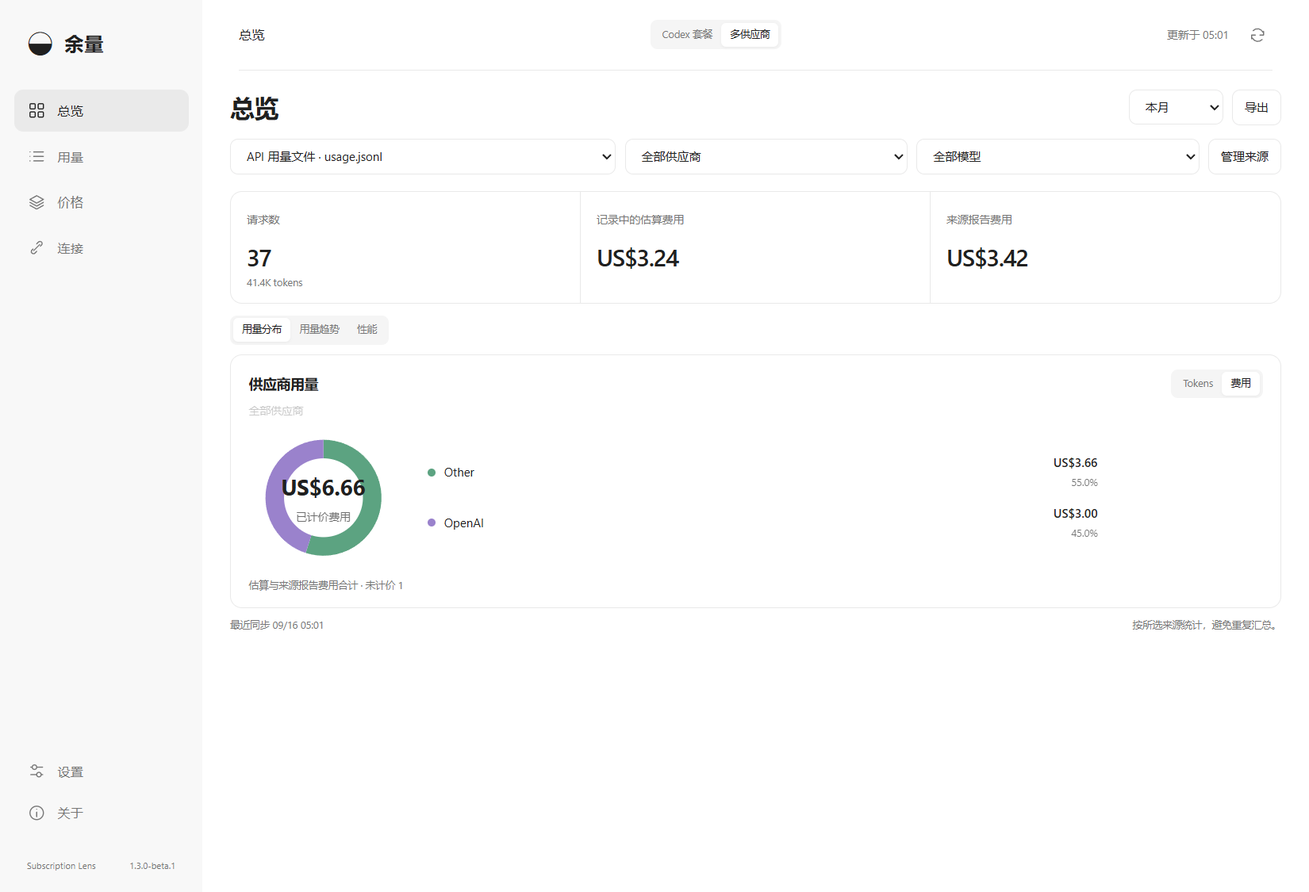
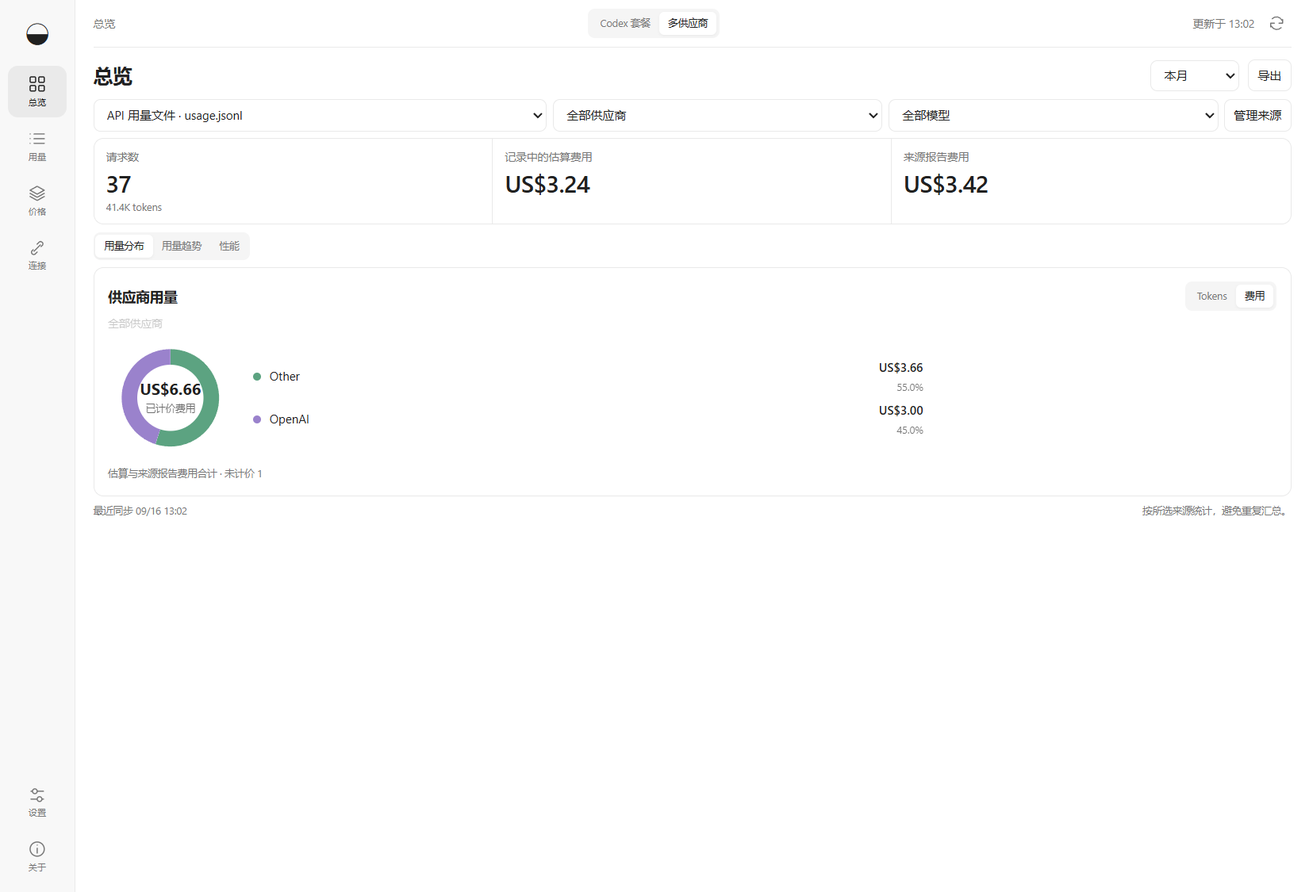
Make the desktop workspace compact

diff --git a/src/ui/layout.css b/src/ui/layout.css
@@ -28,3 +28,92 @@ body[data-page="overview"][data-multi="false"] main>.metrics{grid-template-colum
 body[data-page="sources"] .grid-2{grid-template-columns:repeat(2,minmax(0,1fr))}body[data-page="sources"] .grid-2>.panel{min-width:0}body[data-page="sources"] .connection-head{gap:8px;flex-wrap:wrap}body[data-page="sources"] .source-count{gap:20px}
 @media(max-height:720px){.monitor-days{min-height:95px;padding:6px 0}.dashboard-deck .info-row{padding:8px 0}.dashboard-deck .day-shortcuts{padding-bottom:8px}}
 .dashboard-deck .distribution-center strong{font-size:16px;max-width:70%;overflow-wrap:anywhere;line-height:1.15}.onboarding{margin:20px auto;padding:24px}.dashboard-deck .distribution-center span{font-size:10px}
+
+/* Compact desktop shell: keep every primary task visible in a 760 x 560 window. */
+body:not(.compact-mode) aside{width:76px;padding:14px 8px 10px;align-items:stretch;border-right:1px solid var(--line)}
+body:not(.compact-mode) .workspace{margin-left:76px}
+body:not(.compact-mode) .brand{height:40px;padding:0;margin:0 0 12px;justify-content:center;letter-spacing:0}
+body:not(.compact-mode) .brand .logo{font-size:25px}
+body:not(.compact-mode) nav{gap:3px}
+body:not(.compact-mode) nav button,body:not(.compact-mode) .nav-bottom button{min-height:52px;padding:7px 4px;gap:3px;flex-direction:column;justify-content:center;text-align:center;border-radius:10px;font-size:9px;line-height:1.1}
+body:not(.compact-mode) nav button i,body:not(.compact-mode) .nav-bottom button i{height:20px}
+body:not(.compact-mode) nav button i svg,body:not(.compact-mode) .nav-bottom button i svg{width:19px;height:19px}
+body:not(.compact-mode) .nav-bottom{display:grid;gap:3px}
+body:not(.compact-mode) header{height:48px;margin:0 18px;gap:12px}
+body:not(.compact-mode) #breadcrumb{font-size:11px;font-weight:500;color:var(--muted)}
+body:not(.compact-mode) .header-actions{gap:7px}
+body:not(.compact-mode) main{padding:12px 18px 12px}
+body:not(.compact-mode) .page-head{min-height:32px;margin-bottom:8px}
+body:not(.compact-mode) h1{font-size:20px;letter-spacing:-.4px}
+body:not(.compact-mode) .page-sub{display:inline;margin:0 0 0 8px}
+body:not(.compact-mode) .page-head>div:first-child{display:flex;align-items:baseline;min-width:0}
+body:not(.compact-mode) .button,body:not(.compact-mode) select,body:not(.compact-mode) .input{padding:6px 9px;border-radius:7px}
+body:not(.compact-mode) .metrics{border-radius:10px;margin-bottom:8px}
+body:not(.compact-mode) .metric{min-height:76px;padding:9px 12px}
+body:not(.compact-mode) .metric-label{min-height:auto!important;white-space:nowrap;overflow:hidden;text-overflow:ellipsis}
+body:not(.compact-mode) .metric-value{font-size:22px;margin:3px 0 1px;letter-spacing:-.5px}
+body:not(.compact-mode) .metric-note{white-space:nowrap;overflow:hidden;text-overflow:ellipsis}
+body:not(.compact-mode) .dashboard-tabs{margin-bottom:7px;padding:2px;max-width:100%;overflow-x:auto}
+body:not(.compact-mode) .dashboard-tabs button{padding:4px 9px}
+body:not(.compact-mode) .dashboard-deck{margin-bottom:7px}
+body:not(.compact-mode) .dashboard-deck .decision-grid{margin:0;gap:10px;grid-template-columns:minmax(0,1.25fr) minmax(0,1fr)}
+body:not(.compact-mode) .quota-card .panel-head{padding:10px 14px 0;align-items:center;flex-wrap:nowrap}
+body:not(.compact-mode) .quota-card select{max-width:64%;padding-top:5px;padding-bottom:5px}
+body:not(.compact-mode) .quota-main{padding:7px 14px 5px}
+body:not(.compact-mode) .quota-number{font-size:31px;letter-spacing:-1px}
+body:not(.compact-mode) .reset-time strong{font-size:16px}
+body:not(.compact-mode) .quota-meter{margin:0 14px 7px}
+body:not(.compact-mode) .pace-line{padding:0 14px;font-size:11px}
+body:not(.compact-mode) .pace-detail{padding:4px 14px 0;line-height:1.35}
+body:not(.compact-mode) .quota-footer{padding:6px 14px 9px}
+body:not(.compact-mode) .billing-card{padding:10px 14px}
+body:not(.compact-mode) .billing-card p{margin:2px 0 4px}
+body:not(.compact-mode) .bill-value{font-size:22px}
+body:not(.compact-mode) .bill-progress{margin:6px 0}
+body:not(.compact-mode) .bill-result{margin-bottom:3px}
+body:not(.compact-mode) .dashboard-deck .distribution-body{min-height:126px;gap:18px}
+body:not(.compact-mode) .dashboard-deck .distribution-visual{width:126px;flex-basis:126px}
+body:not(.compact-mode) .distribution-row{min-height:32px;padding:3px 2px}
+body:not(.compact-mode) .dashboard-deck .chart{height:132px}
+body:not(.compact-mode) .dashboard-deck .panel-head{padding:10px 14px 0}
+body:not(.compact-mode) .dashboard-deck .chart-area{padding:6px 14px 2px}
+body:not(.compact-mode) .dashboard-deck .day-shortcuts{padding:0 14px 8px}
+body:not(.compact-mode) .monitor-days{min-height:105px;padding:5px 0}
+body:not(.compact-mode) .overview-footer,body:not(.compact-mode) .monitor-footer{min-height:22px;margin-top:4px}
+body:not(.compact-mode) .filters,body:not(.compact-mode) .usage-toolbar,body:not(.compact-mode) .filter-chips{margin-bottom:7px;gap:6px}
+body:not(.compact-mode) .panel,body:not(.compact-mode) .metrics{border-radius:10px}
+body:not(.compact-mode) th{padding:8px 12px}
+body:not(.compact-mode) td,body[data-page="activity"] td{padding:8px 12px}
+body:not(.compact-mode) .pagination{padding:7px 12px}
+body:not(.compact-mode) .padded,body:not(.compact-mode) .form-section{padding:14px}
+body:not(.compact-mode) .connection-head,body:not(.compact-mode) .form-section h2{margin-bottom:12px}
+body:not(.compact-mode) .source-count{margin:10px 0;gap:18px}
+body:not(.compact-mode) .source-count strong{font-size:21px}
+body:not(.compact-mode) .info-row{padding:8px 0}
+body:not(.compact-mode) .field{margin-bottom:11px}
+body:not(.compact-mode) .section-gap{margin-top:9px}
+body:not(.compact-mode) .notice{margin-bottom:7px;padding:7px 10px}
+
+@media(max-width:900px){
+ body:not(.compact-mode) aside{width:66px;padding-left:6px;padding-right:6px}
+ body:not(.compact-mode) .workspace{margin-left:66px}
+ body:not(.compact-mode) nav button,body:not(.compact-mode) .nav-bottom button{font-size:8px}
+ body:not(.compact-mode) header{margin:0 12px}
+ body:not(.compact-mode) main{padding-left:12px;padding-right:12px}
+ body:not(.compact-mode) .page-actions .button{padding-left:7px;padding-right:7px}
+ body:not(.compact-mode) .monitor-metrics{grid-template-columns:repeat(3,minmax(0,1fr))!important}
+ body:not(.compact-mode) .dashboard-deck .decision-grid{grid-template-columns:minmax(0,1fr) minmax(0,.9fr)}
+}
+@media(max-height:620px){
+ body:not(.compact-mode) header{height:42px}
+ body:not(.compact-mode) main{padding-top:8px;padding-bottom:8px}
+ body:not(.compact-mode) .page-head{min-height:28px;margin-bottom:5px}
+ body:not(.compact-mode) h1{font-size:18px}
+ body:not(.compact-mode) .metric{min-height:65px;padding:6px 10px}
+ body:not(.compact-mode) .metric-value{font-size:19px}
+ body:not(.compact-mode) .dashboard-tabs{margin-bottom:5px}
+ body:not(.compact-mode) .dashboard-deck .distribution-body{min-height:105px}
+ body:not(.compact-mode) .dashboard-deck .distribution-visual{width:105px;flex-basis:105px}
+ body:not(.compact-mode) .quota-footer{display:none}
+ body:not(.compact-mode) .pace-detail{font-size:9px}
+}

diff --git a/src/ui/layout.js b/src/ui/layout.js
@@ -1,5 +1,5 @@
 'use strict';
-const layoutState={tab:'distribution',pages:{},limit:5};
+const layoutState={tabs:{codex:'plan',multi:'distribution'},pages:{},limit:5};
 const filtersBeforeLayout=filters,renderBeforeLayout=render;
 filters=()=>({...filtersBeforeLayout(),limit:layoutState.limit});
 function pageItems(container,items,key,reserve=56){
@@ -13,13 +13,12 @@ function pageItems(container,items,key,reserve=56){
 function fitOverview(main){
  const distribution=main.querySelector('.distribution-panel'),two=main.querySelector('.two-col');if(!distribution)return;
  const trend=two?.querySelector(':scope > section:not(.distribution-panel)'),project=two?.querySelector('.project-card'),decision=main.querySelector('.decision-grid');
- const short=innerHeight<960;
  let performance=null;if(state.multi){const metrics=main.querySelector('.monitor-metrics');if(metrics){performance=document.createElement('section');performance.className='panel performance-panel';const grid=document.createElement('div');grid.className='metrics performance-metrics';[...metrics.children].slice(3).forEach(n=>grid.append(n));performance.append(grid);}}
- const panels=[['distribution','用量分布',distribution],['trend','用量趋势',trend],['projects','项目',project],['performance','性能',performance],...(short?[['plan','套餐与账期',decision]]:[])].filter(([, ,node])=>node);
- if(!panels.some(([key])=>key===layoutState.tab))layoutState.tab='distribution';
- const tabs=document.createElement('div');tabs.className='segments dashboard-tabs';tabs.innerHTML=panels.map(([key,label])=>`<button data-layout-tab="${key}" class="${layoutState.tab===key?'active':''}" aria-pressed="${layoutState.tab===key}">${t(label)}</button>`).join('');
+ const panels=[...(!state.multi?[['plan','套餐与账期',decision]]:[]),['distribution','用量分布',distribution],['trend','用量趋势',trend],['projects','项目',project],['performance','性能',performance]].filter(([, ,node])=>node);
+ const mode=state.multi?'multi':'codex';if(!panels.some(([key])=>key===layoutState.tabs[mode]))layoutState.tabs[mode]=panels[0][0];
+ const active=layoutState.tabs[mode];const tabs=document.createElement('div');tabs.className='segments dashboard-tabs';tabs.innerHTML=panels.map(([key,label])=>`<button data-layout-tab="${key}" class="${active===key?'active':''}" aria-pressed="${active===key}">${t(label)}</button>`).join('');
  const deck=document.createElement('div');deck.className='dashboard-deck';
- for(const[key,,node]of panels){node.hidden=key!==layoutState.tab;deck.append(node);}
+ for(const[key,,node]of panels){node.hidden=key!==active;deck.append(node);}
  if(two)two.remove();const footer=main.querySelector('.overview-footer,.monitor-footer');main.insertBefore(tabs,footer);main.insertBefore(deck,footer);
  if(project&&!project.hidden)pageItems(project.querySelector('.project-list'),[...project.querySelectorAll('.project-item')],'projects',70);
  if(!distribution.hidden)pageItems(distribution.querySelector('.distribution-legend'),[...distribution.querySelectorAll('.distribution-row')],'legend',100);
@@ -37,7 +36,7 @@ render=function(){renderBeforeLayout();if(!state.data)return;document.body.datas
  }
 };
 document.addEventListener('click',event=>{const button=event.target.closest('button');if(!button)return;const d=button.dataset;
- if(d.layoutTab){event.stopImmediatePropagation();layoutState.tab=d.layoutTab;render();}
+ if(d.layoutTab){event.stopImmediatePropagation();layoutState.tabs[state.multi?'multi':'codex']=d.layoutTab;render();}
  if(d.layoutPage){event.stopImmediatePropagation();layoutState.pages[d.layoutPage]=Math.max(0,(layoutState.pages[d.layoutPage]||0)+Number(d.delta));render();}
  if(['prev','next'].includes(d.action)){event.stopImmediatePropagation();state.offset=Math.max(0,state.offset+(d.action==='next'?layoutState.limit:-layoutState.limit));load();}
 },true);

diff --git a/src/ui/index.html b/src/ui/index.html
@@ -1,5 +1,5 @@
 <!doctype html><html lang="zh-CN"><head><meta charset="utf-8"><meta name="viewport" content="width=device-width,initial-scale=1"><meta http-equiv="Content-Security-Policy" content="default-src 'self'; script-src 'self'; style-src 'self' 'unsafe-inline'; img-src 'self' data:; connect-src 'none'; object-src 'none'; base-uri 'none'; form-action 'none'"><title>Subscription Lens</title><link rel="stylesheet" href="style.css"><link rel="stylesheet" href="experience.css"><link rel="stylesheet" href="monitor.css"><link rel="stylesheet" href="layout.css"><script src="locales.js" defer></script><script src="../i18n.js" defer></script><script src="app.js" defer></script><script src="experience.js" defer></script><script src="monitor.js" defer></script><script src="distribution.js" defer></script><script src="layout.js" defer></script></head><body>
-<aside><div class="brand"><span class="logo">◒</span><span><span data-i18n="余量">余量</span></span></div><nav aria-label="导航" data-i18n-label="导航"><button data-page="overview" class="active"><i data-icon="overview"></i><span data-i18n="总览">总览</span></button><button data-page="activity"><i data-icon="list"></i><span data-i18n="用量">用量</span></button><button data-page="models"><i data-icon="models"></i><span data-i18n="价格">价格</span></button><button data-page="sources"><i data-icon="connect"></i><span data-i18n="连接">连接</span></button></nav><div class="nav-bottom"><button data-page="settings"><i data-icon="settings"></i><span data-i18n="设置">设置</span></button><button id="about"><i data-icon="info"></i><span data-i18n="关于">关于</span></button><small>Subscription Lens <span>1.3.0-beta.1</span></small></div></aside>
+<aside><div class="brand" title="Subscription Lens" aria-label="Subscription Lens"><span class="logo">◒</span></div><nav aria-label="导航" data-i18n-label="导航"><button data-page="overview" class="active" data-i18n-title="总览"><i data-icon="overview"></i><span data-i18n="总览">总览</span></button><button data-page="activity" data-i18n-title="用量"><i data-icon="list"></i><span data-i18n="用量">用量</span></button><button data-page="models" data-i18n-title="价格"><i data-icon="models"></i><span data-i18n="价格">价格</span></button><button data-page="sources" data-i18n-title="连接"><i data-icon="connect"></i><span data-i18n="连接">连接</span></button></nav><div class="nav-bottom"><button data-page="settings" data-i18n-title="设置"><i data-icon="settings"></i><span data-i18n="设置">设置</span></button><button id="about" data-i18n-title="关于"><i data-icon="info"></i><span data-i18n="关于">关于</span></button></div></aside>
 <div class="workspace"><header><span id="breadcrumb"><span data-i18n="总览">总览</span></span><div class="header-actions"><span id="update-state"></span><button class="icon-button" id="refresh" title="刷新" aria-label="刷新" data-i18n-label="刷新" data-i18n-title="刷新"><i data-icon="refresh"></i></button></div></header><main id="main"><div class="loading"><span data-i18n="正在加载…">正在加载…</span></div></main></div>
 <dialog id="dialog"><div class="dialog-top"><h2 id="dialog-title"></h2><button class="icon-button" id="close-dialog" aria-label="关闭" data-i18n-label="关闭">×</button></div><div id="dialog-body"></div></dialog><div id="toast" role="status" aria-live="polite"></div>
 </body></html>

diff --git a/src/ui/app.js b/src/ui/app.js
@@ -51,7 +51,7 @@ document.addEventListener('change',e=>{if(e.target.id==='period'){state.period=e
 let searchTimer;document.addEventListener('input',e=>{if(e.target.id==='search'){state.query=e.target.value;state.offset=0;clearTimeout(searchTimer);searchTimer=setTimeout(load,180);}if(e.target.closest('#settings-form'))state.dirty=true;});
 document.addEventListener('submit',e=>{if(e.target.id!=='settings-form')return;e.preventDefault();const f=new FormData(e.target);action(async()=>{const r=await api('saveSettings',{cycleStart:f.get('cycleStart'),cycleEnd:f.get('cycleEnd'),paid:f.get('paid')===''?null:Number(f.get('paid')),extra:Number(f.get('extra')),language:f.get('language'),theme:f.get('theme'),tray:f.has('tray'),startup:f.has('startup')});state.dirty=false;state.data.settings=r;return r;},()=>t('已保存'));});
 $('#refresh').addEventListener('click',()=>action(()=>api('refresh')));$('#close-dialog').addEventListener('click',()=>$('#dialog').close());
-$('#about').addEventListener('click',()=>modal(t("余量"),`<p>Subscription Lens 1.3.0-beta.1</p><p>${t("Codex 套餐用量监测。数据保存在本机，应用不保存聊天正文。")}</p><p>${t("API 等价成本按价格快照计算，不含工具费用。普通 ChatGPT 聊天和未接入设备不计入明细。")}</p><p>${t("独立工具，与 OpenAI 无隶属关系。")}</p><button class="button" data-action="openPricing">${t("价格来源")}</button>`));
+$('#about').addEventListener('click',()=>modal(t("余量"),`<p>Subscription Lens ${esc(state.data?.desktop?.version||'')}</p><p>${t("Codex 套餐用量监测。数据保存在本机，应用不保存聊天正文。")}</p><p>${t("API 等价成本按价格快照计算，不含工具费用。普通 ChatGPT 聊天和未接入设备不计入明细。")}</p><p>${t("独立工具，与 OpenAI 无隶属关系。")}</p><button class="button" data-action="openPricing">${t("价格来源")}</button>`));
 document.querySelectorAll('[data-icon]').forEach(i=>i.innerHTML=svg(i.dataset.icon));
 localizeShell();window.lens.changed(()=>load());matchMedia('(prefers-color-scheme:dark)').addEventListener('change',applyTheme);load();
 

diff --git a/README.md b/README.md
@@ -9,7 +9,7 @@ A Windows desktop app for **Codex subscription users** who want to see their rem
 | Task | Features |
 | --- | --- |
 | Check remaining capacity | Account quota, reset countdowns and recent-pace estimates when enough observations are available. |
-| Understand your usage | Browse recorded tokens by project, model and session; drill down to individual records. |
+| Understand your usage | Compare providers in a ring chart, select one to inspect its models, then drill down to requests or Codex sessions. |
 | Compare usage with your payment | View estimated API-equivalent costs alongside your actual payment for the billing period. |
 | Keep limits within reach | Use a compact pinnable window, the system tray and optional low-quota alerts with quiet hours. |
 | Export and share | Export records to CSV or save an aggregate-only HTML report without project names or account identifiers. |
@@ -24,9 +24,9 @@ Connect Qwen Code, Kimi Code, CodeBuddy Code, CC Switch, Claude Code, Gemini CLI
 
 ## Download and get started
 
-**1.4.0-beta.1 Preview · Windows x64.** The current collector does not yet handle all client record formats; totals may be too high or too low. Costs are estimates, not a bill or guaranteed savings. The build is unsigned and has no automatic updater.
+**1.4.0-beta.2 Preview · Windows x64.** The current collector does not yet handle all client record formats; totals may be too high or too low. Costs are estimates, not a bill or guaranteed savings. The build is unsigned and has no automatic updater.
 
-[Download the installer or portable ZIP](https://github.com/zh3nggg/subscription-lens/releases/tag/v1.4.0-beta.1)
+[Download the installer or portable ZIP](https://github.com/zh3nggg/subscription-lens/releases/tag/v1.4.0-beta.2)
 
 Run the new installer to upgrade the existing installation in place; keep its detected folder. Settings and usage history are retained. Stable and preview installers share one application identity; the portable ZIP is not an installer. Background automatic downloading is not included.
 
@@ -34,6 +34,8 @@ Run the new installer to upgrade the existing installation in place; keep its de
 2. Open **Connections → Connect account** to query limits through your locally installed Codex. If signed out, use **Sign in to ChatGPT**.
 3. Under **Settings**, enter your billing dates, plan payment and extra credit payments in USD. The end date is exclusive. Choose manual dates or automatic monthly renewal.
 4. Choose **Language**: system default, Simplified Chinese, English or Dutch, then **Save**. The choice takes effect immediately and is preserved after restart. Other system languages default to English.
+
+The main workspace is designed for windows from 760×560 upward. Codex opens on plan status; multi-provider monitoring opens on provider distribution. Use the tabs to switch between distribution, trends, projects and performance without losing the current source or period.
 
 No API key, Node.js, Python or Docker is needed to run the app. Account queries require an installed Codex executable; local usage monitoring works without an account connection.
 
@@ -87,6 +89,6 @@ npm run dist
 
 Developed with assistance from **GPT-6 Astra**.
 
-[CodexBar](https://github.com/steipete/CodexBar) informs the quota and desktop interaction requirements. MIT-licensed [codex-usage](https://github.com/zJay26/codex-usage) source is included for the next accounting-engine integration; it is not active in the 1.4.0-beta.1 desktop app.
+[CodexBar](https://github.com/steipete/CodexBar) informs the quota and desktop interaction requirements. MIT-licensed [codex-usage](https://github.com/zJay26/codex-usage) source is included for the next accounting-engine integration; it is not active in the 1.4.0-beta.2 desktop app.
 
 MIT. See [third-party notices](THIRD-PARTY-NOTICES.md) for attribution and licenses. This is an independent project, not affiliated with OpenAI or endorsed by the referenced projects.

diff --git a/docs/README.zh-CN.md b/docs/README.zh-CN.md
@@ -24,18 +24,20 @@
 
 ## 下载与快速开始
 
-**1.4.0-beta.1 预发布 · Windows x64。** 当前采集器尚未完整适配所有客户端记录格式，汇总可能偏高或偏低；费用是估算值，不是账单或保证节省的金额。安装包未做代码签名，暂不支持自动更新。
+**1.4.0-beta.2 预发布 · Windows x64。** 当前采集器尚未完整适配所有客户端记录格式，汇总可能偏高或偏低；费用是估算值，不是账单或保证节省的金额。安装包未做代码签名，暂不支持自动更新。
 
-[下载安装包或便携版](https://github.com/zh3nggg/subscription-lens/releases/tag/v1.4.0-beta.1)
+[下载安装包或便携版](https://github.com/zh3nggg/subscription-lens/releases/tag/v1.4.0-beta.2)
 
 运行新版安装包即可原位升级，沿用检测到的安装目录，无需手动卸载；设置和用量历史会保留。稳定版与测试版共用同一个应用身份。ZIP 为便携文件，不会自动覆盖已安装版本；当前不包含后台自动下载更新。
 
-1. 从 GitHub 仓库的 Releases 页面下载安装包或便携 ZIP。运行 `Subscription-Lens-1.4.0-beta.1-x64.exe` 安装，或解压 ZIP 后运行 `Subscription Lens.exe`。
+1. 从 GitHub 仓库的 Releases 页面下载安装包或便携 ZIP。运行 `Subscription-Lens-1.4.0-beta.2-x64.exe` 安装，或解压 ZIP 后运行 `Subscription Lens.exe`。
 2. 首次打开点击“开始监测”；自定义 Codex Home 可点“选择目录”。目录应包含 `sessions` 或 `archived_sessions`。
 3. 在“连接”中点击“连接账户”。应用使用本机 Codex 的官方登录；未登录时按按钮打开浏览器登录。
 4. 在“设置”中填写账期起止、套餐实付与额外额度（USD）。结束日期不含当天；可选手动日期或按续费日自动滚动。
 5. 托盘运行、开机启动、深浅主题均在“设置”中配置。
 6. 在“设置 → 语言”选择简体中文、English 或 Nederlands，点击“保存”立即应用。默认跟随系统，其他系统语言使用英语；重启后保留选择。
+
+主工作台从 760×560 窗口起即可完整使用。Codex 模式默认显示套餐状态，多供应商模式默认显示供应商分布；切换分布、趋势、项目与性能标签时会保留当前来源和时间范围。
 
 不需要 API Key、Node、Python 或 Docker。查询账户额度需要本机安装 Codex；找不到程序时可选择 `codex.exe`。仅查看本地 Token 明细不依赖账户查询。
 
@@ -104,6 +106,6 @@ npm run dist
 
 本项目在 **GPT-6 Astra** 的协助下完成开发。
 
-[CodexBar](https://github.com/steipete/CodexBar) 为额度和桌面交互设计提供参考；项目已引入采用 MIT 许可的 [codex-usage](https://github.com/zJay26/codex-usage) 源码，用于下一步统计引擎整合，尚未在 1.4.0-beta.1 桌面程序中启用。
+[CodexBar](https://github.com/steipete/CodexBar) 为额度和桌面交互设计提供参考；项目已引入采用 MIT 许可的 [codex-usage](https://github.com/zJay26/codex-usage) 源码，用于下一步统计引擎整合，尚未在 1.4.0-beta.2 桌面程序中启用。
 
 本项目采用 MIT 许可，相关来源和版权见[开源说明](../THIRD-PARTY-NOTICES.md)。这是独立项目，与 OpenAI 无隶属关系，也未获得上述项目的背书。

diff --git a/docs/README.nl.md b/docs/README.nl.md
@@ -24,9 +24,9 @@ Verbind Qwen Code, Kimi Code, CodeBuddy Code, CC Switch, Claude Code, Gemini CLI
 
 ## Downloaden en aan de slag
 
-**1.4.0-beta.1 Preview · Windows x64.** De collector verwerkt nog niet alle recordformaten volledig; totalen kunnen te hoog of te laag zijn. Kosten zijn schattingen, geen factuur of gegarandeerde besparing. Deze build is niet digitaal ondertekend en heeft geen automatische updates.
+**1.4.0-beta.2 Preview · Windows x64.** De collector verwerkt nog niet alle recordformaten volledig; totalen kunnen te hoog of te laag zijn. Kosten zijn schattingen, geen factuur of gegarandeerde besparing. Deze build is niet digitaal ondertekend en heeft geen automatische updates.
 
-[Download het installatiebestand of de draagbare ZIP-versie](https://github.com/zh3nggg/subscription-lens/releases/tag/v1.4.0-beta.1)
+[Download het installatiebestand of de draagbare ZIP-versie](https://github.com/zh3nggg/subscription-lens/releases/tag/v1.4.0-beta.2)
 
 Voer het nieuwe installatieprogramma uit om de bestaande installatie te vervangen en behoud de gevonden map. Instellingen en gebruiksgeschiedenis blijven behouden. Stabiele en testversies delen dezelfde app-identiteit. De draagbare ZIP is geen installatieprogramma; automatisch downloaden op de achtergrond is niet inbegrepen.
 
@@ -34,6 +34,8 @@ Voer het nieuwe installatieprogramma uit om de bestaande installatie te vervange
 2. Open **Verbindingen → Account verbinden** om limieten op te halen via de lokaal geïnstalleerde Codex. Gebruik **Aanmelden bij ChatGPT** als je nog niet bent aangemeld.
 3. Vul onder **Instellingen** de factuurperiode, abonnementsbetaling en betaling voor extra tegoed in USD in. De einddatum telt niet mee. Kies handmatige datums of automatische maandelijkse verlenging.
 4. Kies bij **Taal** de systeeminstelling, vereenvoudigd Chinees, Engels of Nederlands en klik op **Opslaan**. De keuze wordt direct toegepast en blijft na een herstart behouden. Bij andere systeemtalen wordt Engels gebruikt.
+
+De hoofdwerkruimte is volledig bruikbaar vanaf 760×560. Codex opent met de abonnementsstatus; monitoring van meerdere aanbieders opent met de verdeling per aanbieder. Bij wisselen tussen verdeling, trends, projecten en prestaties blijven bron en periode behouden.
 
 Je hebt geen API-sleutel, Node.js, Python of Docker nodig. Voor accountgegevens moet Codex geïnstalleerd zijn. Lokaal gebruik bijhouden werkt ook zonder accountverbinding.
 
@@ -87,6 +89,6 @@ npm run dist
 
 Ontwikkeld met ondersteuning van **GPT-6 Astra**.
 
-[CodexBar](https://github.com/steipete/CodexBar) dient als referentie voor limieten en desktopinteractie. MIT-gelicentieerde broncode van [codex-usage](https://github.com/zJay26/codex-usage) is opgenomen voor de volgende engine-integratie; deze is nog niet actief in de desktopapp 1.4.0-beta.1.
+[CodexBar](https://github.com/steipete/CodexBar) dient als referentie voor limieten en desktopinteractie. MIT-gelicentieerde broncode van [codex-usage](https://github.com/zJay26/codex-usage) is opgenomen voor de volgende engine-integratie; deze is nog niet actief in de desktopapp 1.4.0-beta.2.
 
 MIT. Zie [licenties van derden](../THIRD-PARTY-NOTICES.md) voor bronnen en auteursrechten. Dit is een onafhankelijk project, niet verbonden aan OpenAI of onderschreven door de genoemde projecten.

diff --git a/RELEASE-NOTES.md b/RELEASE-NOTES.md
@@ -1,10 +1,16 @@
-# Subscription Lens 1.3.0-beta.1
+# Subscription Lens 1.4.0-beta.2
 
 Windows x64 · 中文 / English / Nederlands
 
 ## 新增功能
 
-- 多供应商本地监控：CC Switch 请求数据库、Claude Code、Gemini CLI 与 API JSONL。
+- 主窗口改为紧凑工作台：窄侧栏、低顶栏与单行操作区，把常用信息集中在 760×560 起的窗口内。
+- Codex 默认先显示套餐与账期；多供应商默认先显示用量分布。额度、分布、趋势、项目与性能共享同一内容区域，切换时不改变筛选条件。
+- 导航始终保留图标和短标签；窗口放大后也维持紧凑密度，减少无效留白和视线移动。
+- 国产编码平台只读连接器：Qwen Code 月度请求记录、Kimi Code 主／子代理 per-turn 用量、CodeBuddy Code 项目记录。
+- GLM、通义、Kimi、MiniMax、DeepSeek 的供应商归属，适用于 Claude Code、CC Switch 与兼容入口。
+- CodeBuddy 缓存命中／未命中优先解析，并修正其回退记录中输入已包含缓存的特殊口径。
+- 保留原有 CC Switch、Claude Code、Gemini CLI 与 API JSONL 连接器。
 - 供应商 → 模型环形图，可切换 Tokens／费用，点击模型进入请求明细。
 - 请求成功率、P95 延迟、首 Token 延迟、未计价筛选、自定义价格及 CSV。
 - 常用页面采用页内标签与自适应分页，避免依赖整页上下滚动；设置和主动展开的复杂内容例外。
@@ -12,11 +18,11 @@ Windows x64 · 中文 / English / Nederlands
 
 ## What's new
 
-Local provider connectors, provider-to-model ring charts, Tokens/cost switching, request and performance analysis, custom pricing and CSV export. Common screens use tabs and pagination. Run the new installer to replace the old application while retaining local settings and history; keep the detected installation directory.
+A compact desktop workspace now fits the full daily workflow at 760×560. Codex opens on plan status, while multi-provider monitoring opens on provider distribution; quota, distribution, trends, projects and performance share one tabbed workspace. Read-only Qwen Code, Kimi Code and CodeBuddy Code connectors and domestic provider attribution remain integrated. Run the installer over the existing installation to retain local settings and history.
 
 ## Nieuw
 
-Lokale bronnen voor meerdere aanbieders, ringdiagrammen van aanbieder naar model, wisselen tussen tokens en kosten, verzoek- en prestatieanalyse, eigen prijzen en CSV. Veelgebruikte schermen gebruiken tabbladen en paginering. Het nieuwe installatieprogramma vervangt de oude app en behoudt instellingen en geschiedenis; behoud de gevonden installatiemap.
+De compacte werkruimte bevat de dagelijkse taken vanaf 760×560. Codex opent met de abonnementsstatus; monitoring van meerdere aanbieders opent met de verdeling per aanbieder. Limieten, verdeling, trends, projecten en prestaties delen één gebied met tabbladen. De bestaande connectors en aanbiederherkenning blijven geïntegreerd. Het installatieprogramma vervangt de bestaande app en behoudt instellingen en geschiedenis.
 
 ## Scope
 

diff --git a/docs/RELEASE.md b/docs/RELEASE.md
@@ -1,9 +1,12 @@
-# Subscription Lens 1.4.0-beta.1
+# Subscription Lens 1.4.0-beta.2
 
 Windows x64 · 中文 / English / Nederlands
 
 ## 新增功能
 
+- 主窗口改为紧凑工作台：窄侧栏、低顶栏与单行操作区，把常用信息集中在 760×560 起的窗口内。
+- Codex 默认先显示套餐与账期；多供应商默认先显示用量分布。额度、分布、趋势、项目与性能共享同一内容区域，切换时不改变筛选条件。
+- 导航始终保留图标和短标签；窗口放大后也维持紧凑密度，减少无效留白和视线移动。
 - 国产编码平台只读连接器：Qwen Code 月度请求记录、Kimi Code 主／子代理 per-turn 用量、CodeBuddy Code 项目记录。
 - GLM、通义、Kimi、MiniMax、DeepSeek 的供应商归属，适用于 Claude Code、CC Switch 与兼容入口。
 - CodeBuddy 缓存命中／未命中优先解析，并修正其回退记录中输入已包含缓存的特殊口径。
@@ -15,11 +18,11 @@ Windows x64 · 中文 / English / Nederlands
 
 ## What's new
 
-Read-only Qwen Code, Kimi Code and CodeBuddy Code connectors plus domestic provider attribution through compatible clients and gateways. The existing provider-to-model chart, performance analysis, custom pricing and CSV export remain integrated. Run the installer over the existing installation to retain local settings and history.
+A compact desktop workspace now fits the full daily workflow at 760×560. Codex opens on plan status, while multi-provider monitoring opens on provider distribution; quota, distribution, trends, projects and performance share one tabbed workspace. Read-only Qwen Code, Kimi Code and CodeBuddy Code connectors and domestic provider attribution remain integrated. Run the installer over the existing installation to retain local settings and history.
 
 ## Nieuw
 
-Read-only connectors voor Qwen Code, Kimi Code en CodeBuddy Code, met herkenning van Chinese modelaanbieders via compatibele clients en gateways. Diagrammen, prestatieanalyse, eigen prijzen en CSV blijven in dezelfde interface. Het installatieprogramma vervangt de bestaande app en behoudt instellingen en geschiedenis.
+De compacte werkruimte bevat de dagelijkse taken vanaf 760×560. Codex opent met de abonnementsstatus; monitoring van meerdere aanbieders opent met de verdeling per aanbieder. Limieten, verdeling, trends, projecten en prestaties delen één gebied met tabbladen. De bestaande connectors en aanbiederherkenning blijven geïntegreerd. Het installatieprogramma vervangt de bestaande app en behoudt instellingen en geschiedenis.
 
 ## Scope
 

diff --git a/ROADMAP.md b/ROADMAP.md
@@ -4,7 +4,7 @@
 
 ## English
 
-### Current release: 1.4.0-beta.1 preview
+### Current release: 1.4.0-beta.2 preview
 
 Windows desktop app for Codex subscriptions, with Chinese, English and Dutch UI. Local usage analytics, account quota, billing comparison, compact view and optional notifications are available. Full Codex feature parity with CodexBar and codex-usage is **not yet complete**. See [coverage](docs/COMPATIBILITY.md).
 
@@ -23,7 +23,7 @@ Current scope includes Codex subscriptions and optional local records from Qwen 
 
 ## 简体中文
 
-### 当前版本：1.4.0-beta.1 预发布
+### 当前版本：1.4.0-beta.2 预发布
 
 面向 Codex 套餐的 Windows 桌面应用，支持中文、英语、荷兰语。已提供本地用量分析、账户额度、账期对比、专注窗口和可选提醒。**尚未完整覆盖 CodexBar 与 codex-usage 的 Codex 功能**，详见[覆盖清单](docs/COMPATIBILITY.md)。
 
@@ -42,7 +42,7 @@ Current scope includes Codex subscriptions and optional local records from Qwen 
 
 ## Nederlands
 
-### Huidige versie: 1.4.0-beta.1 preview
+### Huidige versie: 1.4.0-beta.2 preview
 
 Een Windows-desktopapp voor Codex-abonnementen, in het Chinees, Engels en Nederlands. Lokale gebruiksanalyse, accountlimieten, periodevergelijking, compacte weergave en optionele meldingen zijn beschikbaar. **Volledige Codex-functionaliteit van CodexBar en codex-usage is nog niet bereikt.** Zie het [overzicht](docs/COMPATIBILITY.md).
 

diff --git a/docs/VALIDATION.md b/docs/VALIDATION.md
@@ -1,13 +1,13 @@
-# Validation — 1.4.0-beta.1
+# Validation — 1.4.0-beta.2
 
 Windows x64 · Node.js 24.14.0 · Electron 44.4.0 · electron-builder 26.15.3.
 
 ## Automated checks
 
 - 56 unit/integration checks passed locally, including Qwen Code, Kimi Code and CodeBuddy read-only imports, domestic provider attribution, cache semantics, read-only CC Switch imports and upstream corrections, duplicate/unfinished records, price rules, translations and persistent installer identity.
-- Desktop checks cover provider → model → requests, Tokens/cost switching, pagination and Chinese/English/Dutch layouts at 820×600, 1024×768 and 1320×900 content sizes.
+- Desktop checks cover provider → model → requests, Tokens/cost switching, every dashboard tab, pagination and Chinese/English/Dutch layouts at 760×560, 820×600, 1024×768 and 1320×900 content sizes.
 - Existing product, localization and simulated quota tests are part of the release checks. Actual notification delivery is intercepted; these tests do not establish Windows toast delivery under every policy.
-- Source ingestion and GUI tests use synthetic records and no production credentials. No paid model requests are made.
+- Connector and layout fixtures use synthetic records. A packaged startup smoke also verified the existing local Codex import and account connection; it copied no credentials, kept results outside the release artifacts and made no paid model requests.
 
 ## Limits
 

diff --git a/THIRD-PARTY-NOTICES.md b/THIRD-PARTY-NOTICES.md
@@ -9,7 +9,7 @@
 - Copied components: usage, store, model, timezone and pricing packages, including tests and fixtures. Changes and verification are recorded in [UPSTREAM.md](native/usage-engine/UPSTREAM.md).
 - Go-derived timezone material retains [GO-LICENSE](native/usage-engine/internal/timezone/GO-LICENSE).
 
-This source is included for the next accounting-engine integration. Version 1.3.0-beta.1 does not execute or bundle the experimental native binary. Passing upstream tests does not establish desktop feature parity.
+This source is included for the next accounting-engine integration. Version 1.4.0-beta.2 does not execute or bundle the experimental native binary. Passing upstream tests does not establish desktop feature parity.
 
 ## CodexBar — product reference
 
